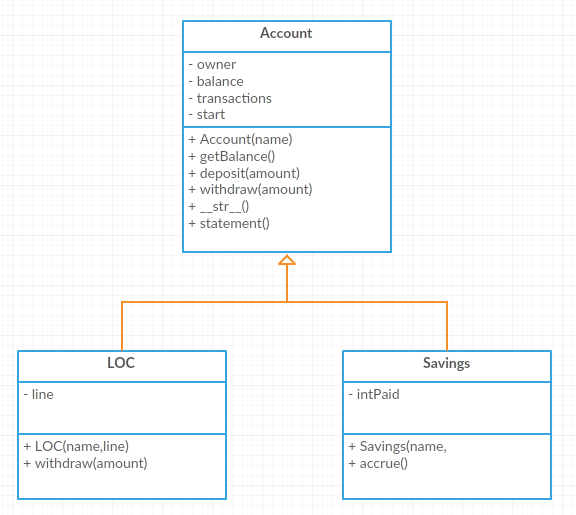
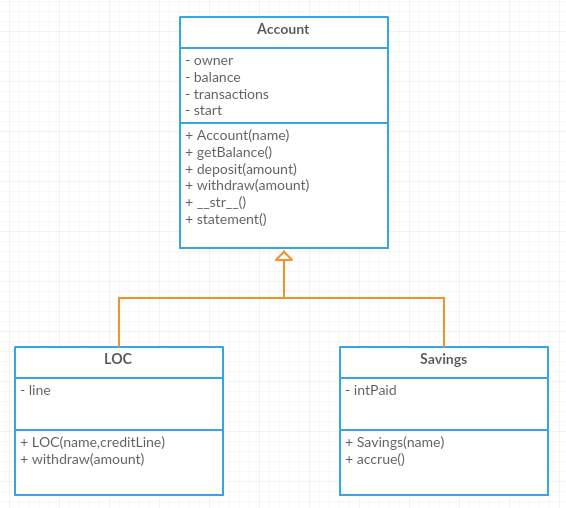
typos

Changed region(s): [[0.3004, 0.0295, 0.6908, 0.5906], [0.5707, 0.5906, 0.9912, 0.9744], [0.0, 0.6791, 0.4205, 0.9744]]

diff --git a/_sources/ClassesDiggingDeeper/MoreInheritance.rst b/_sources/ClassesDiggingDeeper/MoreInheritance.rst
@@ -40,18 +40,18 @@ pay interest.
         '''Savings inherits everything from Account'''
         __rate = 0.01  #the saving account interest rate
         def __init__(self, name):
-            self.__intpaid = 0.0
+            self.__intPaid = 0.0
             Account.__init__(self, name)
        
         def accrue(self):
             '''calculate and deposit interest'''
             interest = Savings.__rate * self.balance
-            self.__intpaid += interest
+            self.__intPaid += interest
             self.deposit(interest)
 
         @property
         def intpaid(self):
-            return self.__intpaid
+            return self.__intPaid
         
 
     a = Savings('Jan')
@@ -60,7 +60,7 @@ pay interest.
     a.accrue()
     print('{} total interest:{}'.format(str(a), a.intpaid))
     a.accrue()
-    print('{} total interest:{}'.format(str(s), a.intpaid))
+    print('{} total interest:{}'.format(str(a), a.intpaid))
 
 
 .. note::

diff --git a/_sources/ClassesDiggingDeeper/Inheritance.rst b/_sources/ClassesDiggingDeeper/Inheritance.rst
@@ -81,8 +81,8 @@ Next we write the LOC constructor.
             return "{} ${:,.2f}".format(self.__owner, self.__balance)
 
     class LOC(Account):
-        def __init__(self, name, line):
-            self.__line = line
+        def __init__(self, name, creditLine):
+            self.__line = creditLine
             Account.__init__(self, name)  # perform the parent class initialization
 
     a = LOC('Jan', 500)
@@ -120,8 +120,8 @@ Now we modify the LOC ``withdraw`` method to also check the object's ``__line`` 
             return "{} ${:,.2f}".format(self.__owner, self.__balance)
 
     class LOC(Account):
-        def __init__(self, name, line):
-            self.__line = line
+        def __init__(self, name, creditLine):
+            self.__line = creditLine
             Account.__init__(self, name)
 
         def withdraw(self, amount):
